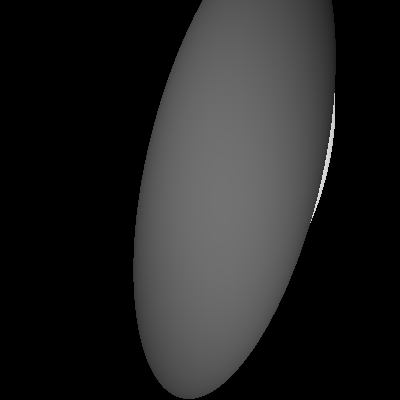
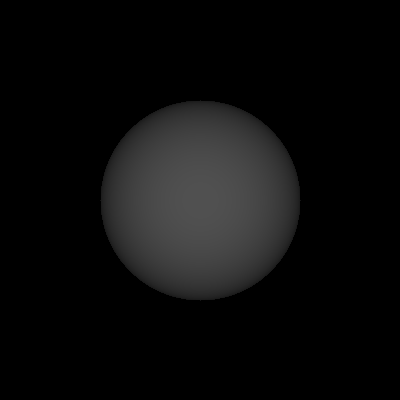
finall fixed a terrible bug

diff --git a/src/main.rs b/src/main.rs
@@ -12,6 +12,7 @@ mod common {
     #[derive(Debug, Clone)]
     pub struct Trig(V3, V3, V3);
 
+    #[derive(Debug, Clone)]
     pub struct Ray {
         pub orig: V3,
         // direction, must be normalized
@@ -99,7 +100,7 @@ mod common {
         type Output = V3;
 
         fn sub(self, rhs: V3) -> V3 {
-            V3([self.x() - rhs.x(), self.y() - rhs.y(), self.z() - rhs.y()])
+            V3([self.x() - rhs.x(), self.y() - rhs.y(), self.z() - rhs.z()])
         }
     }
 
@@ -122,12 +123,12 @@ mod common {
             Plane(r0, n.norm())
         }
         pub fn primary_axis(&self) -> V3 {
-            let shift = V3([0.0, 1.0, 0.0]);
+            let shift = V3([0.0, -0.1, 0.0]);
             let dist = shift.dot(self.n());
             (shift - self.n() * dist).norm()
         }
         pub fn secondary_axis(&self) -> V3 {
-            self.n().cross(self.primary_axis())
+            self.primary_axis().cross(self.n())
         }
     }
 
@@ -158,27 +159,43 @@ mod object {
         // See: http://www.scratchapixel.com/lessons/3d-basic-rendering/minimal-ray-tracer-rendering-simple-shapes/ray-sphere-intersection
         fn intersect(&self, ray: &Ray) -> Option<(V3, V3)> {
             let l = self.c - ray.orig;
-            let tca = l.dot(ray.dir);
+            let tc = l.dot(ray.dir);
 
-            if tca < 0.0 {
+            if tc < 0.0 {
+                println!("Dropped case 1");
                 return None;
             }
 
-            let d2 = l.dot(l) - tca * tca;
-            if d2 > self.r * self.r {
+            let d2 = l.dot(l) - tc * tc;
+            let r2 = self.r * self.r;
+
+            if d2 > r2 {
+                println!("{:?}, L: {:?}, Tc: {:?}", ray, l, tc);
+                println!("Dropped case 2: {} {}", d2, r2);
                 return None;
             }
 
-            let thc = (self.r * self.r - d2).sqrt();
-            let t = vec![tca - thc, tca + thc].into_iter().find(|x| *x > 0.0);
+            let t1c = (r2 - d2).sqrt();
+            let mut t1 = tc - t1c;
+            let mut t2 = tc + t1c;
+
+            if t1 < 0.0 {
+                t1 = t2;
+            }
+            if t2 < t1 {
+                t1 = t2;
+            }
+            let t = if t1 > 0.0 { Some(t1) } else { None };
+
             if let Some(t) = t {
                 let hit = ray.orig + ray.dir * t;
                 let norm = (hit - self.c).norm();
-
-                return Some((hit, norm));
+                println!("Accepted at {:?} {:?}, {}", hit, norm, t);
+                Some((hit, norm))
+            } else {
+                println!("Dropped case 3");
+                None
             }
-
-            None
         }
     }
 }
@@ -233,14 +250,16 @@ mod raytracing {
     use scene::Scene;
 
     // simplest ray tracing algorithm
-    pub fn trace1(s: Scene, w: u32, h: u32) -> GrayImage {
+    pub fn trace1(s: Scene, w: u32, h: u32) -> RgbImage {
         use std::cmp::Ordering;
         let mut film = ImageBuffer::new(w, h);
 
         for (x, y, pixel) in film.enumerate_pixels_mut() {
             let ray = {
                 let orig = s.vp_from_pixel(x, y, w, h);
-                let dir = orig - s.camera;
+                // let dir = orig - s.camera;
+                let dir = s.vp_plane.n();
+                let dir = dir.norm();
                 Ray::new(orig, dir)
             };
 
@@ -256,9 +275,15 @@ mod raytracing {
                     .unwrap_or(Ordering::Less)
             }) {
                 let dist = dist(hit, ray.orig);
-                *pixel = Luma([255 - (dist * 20.0) as u8]);
+                // *pixel = Rgb([
+                //     (100.0 + 100.0 * dir.x()) as u8,
+                //     (100.0 + 100.0 * dir.y()) as u8,
+                //     (100.0 + 100.0 * dir.z()) as u8,
+                // ]);
+                let brit = 200 - (dist * 60.0) as u8;
+                *pixel = Rgb([brit, brit, brit]);
             } else {
-                *pixel = Luma([0 as u8]);
+                *pixel = Rgb([0, 0, 0]);
             }
         }
         film
@@ -274,21 +299,19 @@ fn main() {
     let mut scene1 = Scene::new(
         V3::zero(),
         Plane::new(
-            V3([10.0, 0.0, 0.0]), // r0
+            V3([2.0, 0.0, 0.0]), // r0
             V3([1.0, 0.0, 0.0]), // n
         ),
-        3.0,
-        3.0,
+        2.0,
+        2.0,
     );
 
-    scene1.add_object(Sphere {
-        c: V3([20.0, 1.0, 0.0]),
-        r: 3.0,
-    });
-    scene1.add_object(Sphere {
-        c: V3([25.0, 2.0, 0.0]),
-        r: 3.0,
-    });
+    for i in 2..3 {
+        scene1.add_object(Sphere {
+            c: V3([5.0, (i as f32 - 2.0) * 2.0, 0.0]),
+            r: 1.0,
+        });
+    }
     // scene1.add_object(Sphere {
     //     c: V3([4.0, -2.0, 0.0]),
     //     r: 1.5,
